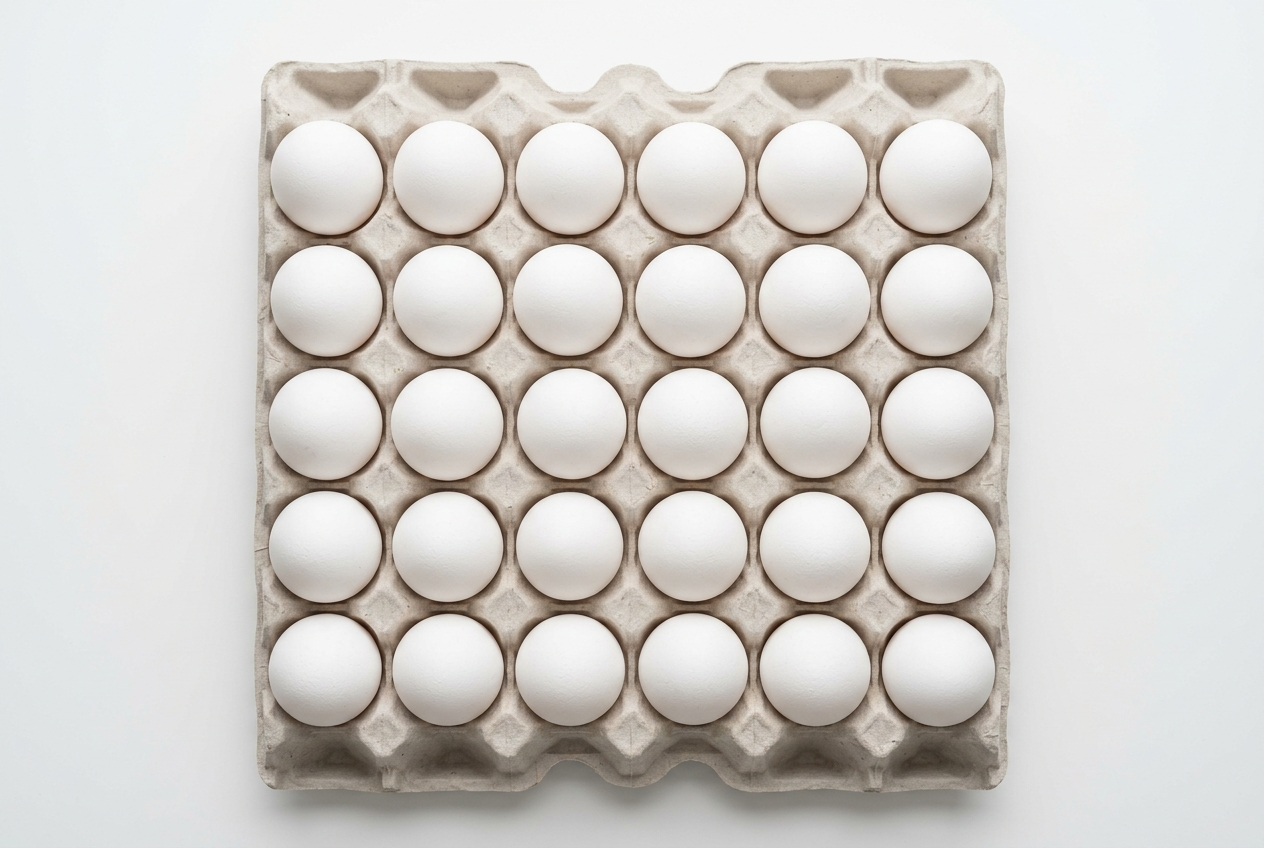
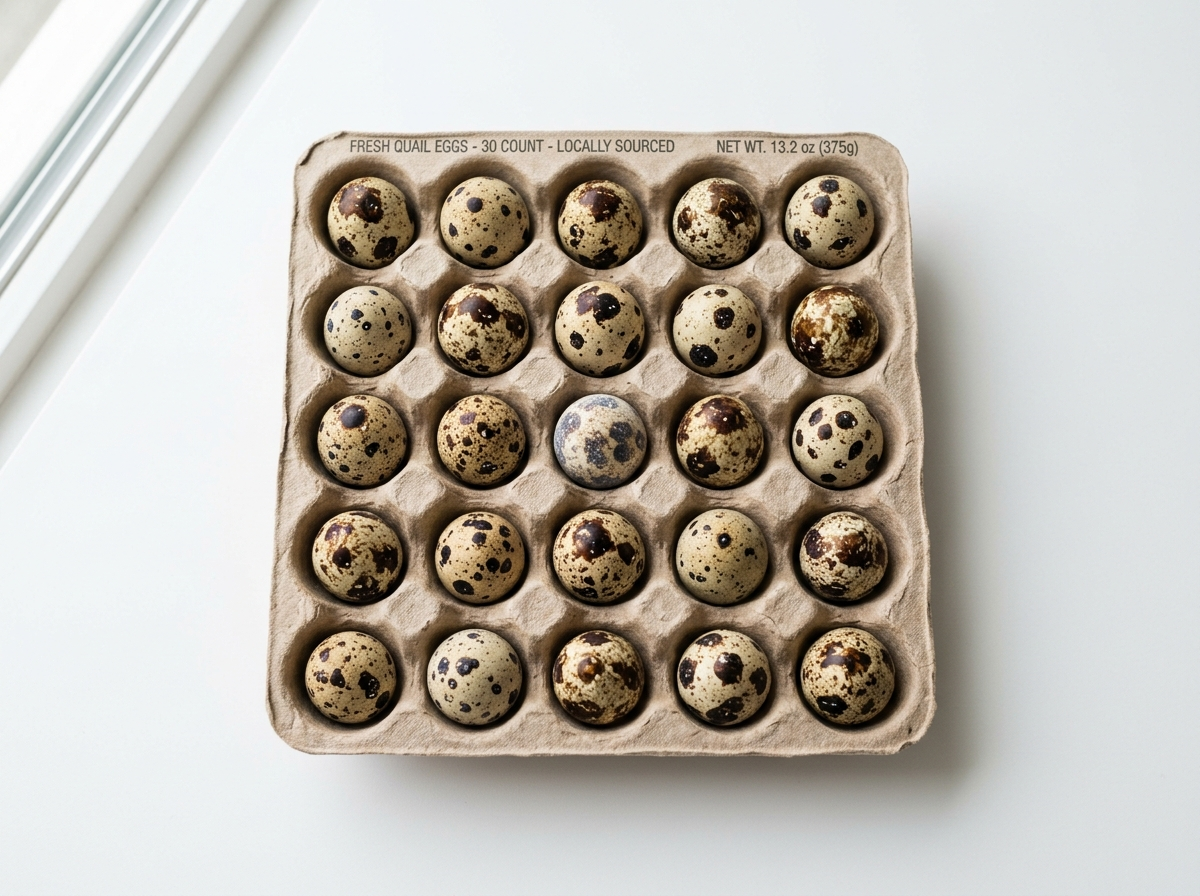
feat: update all images to quail eggs (codorniz), add user hero image, generate product images

diff --git a/src/app/page.tsx b/src/app/page.tsx
@@ -27,20 +27,20 @@ const faqs = [
 const productos = [
   {
     img: "/producto_cubeta.jpg",
-    nombre: "Cubeta de Huevos",
-    desc: "30 huevos frescos seleccionados, empacados con cuidado para proteger su calidad durante el transporte.",
+    nombre: "Cubeta de Huevos de Codorniz",
+    desc: "Huevos de codorniz frescos seleccionados, empacados con cuidado para proteger su calidad durante el transporte.",
     precio: "Consultar precio",
   },
   {
     img: "/producto_carton.jpg",
-    nombre: "Cartón de Huevos",
-    desc: "12 huevos frescos en cartón, ideal para hogares y consumo familiar diario.",
+    nombre: "Cartón de Huevos de Codorniz",
+    desc: "Huevos de codorniz frescos en cartón, ideal para hogares y consumo familiar diario.",
     precio: "Consultar precio",
   },
   {
-    img: "/hero_huevos.jpg",
-    nombre: "Docena Premium",
-    desc: "12 huevos frescos de primera calidad, perfectos para el día a día en tu hogar.",
+    img: "/docena_premium.jpg",
+    nombre: "Huevos Naturales Variados",
+    desc: "Selección premium de huevos naturales de codorniz y huevos de color, frescos y de primera calidad.",
     precio: "Consultar precio",
   },
 ];
@@ -80,7 +80,7 @@ export default function Home() {
       <section className="hero-wp">
         <div style={{ position: 'absolute', inset: 0, zIndex: 0 }}>
           <Image
-            src="/hero_huevos.jpg"
+            src="/img_inicio.jpg"
             alt="Huevos frescos Huevitos Express"
             fill
             sizes="100vw"
@@ -98,7 +98,7 @@ export default function Home() {
               a tu mesa.
             </h1>
             <p style={{ color: 'rgba(255,255,255,0.88)', fontSize: '1.1rem', lineHeight: 1.7, marginBottom: '36px', maxWidth: '560px' }}>
-              En Huevitos Express trabajamos para ofrecer huevos seleccionados, frescos y distribuidos con rapidez, respaldados por la experiencia de la familia Uzcátegui en el sector avícola.
+              En Huevitos Express trabajamos para ofrecer huevos de codorniz y huevos naturales de color, seleccionados, frescos y distribuidos con rapidez, respaldados por la experiencia de la familia Uzcátegui en el sector avícola.
             </p>
             <div style={{ display: 'flex', gap: '16px', flexWrap: 'wrap' }}>
               <Link href="/productos" className="btn-yellow" id="hero-ver-productos">
@@ -159,8 +159,8 @@ export default function Home() {
             </div>
             <div style={{ position: 'relative', height: '420px', border: '4px solid var(--brand-yellow)' }}>
               <Image
-                src="https://images.unsplash.com/photo-1569288052389-dac9b0ac9eac?q=80&w=1000&auto=format&fit=crop"
-                alt="Huevos frescos en granja"
+                src="https://images.unsplash.com/photo-1598965675045-45c5e72c7d05?q=80&w=1000&auto=format&fit=crop"
+                alt="Huevos de codorniz frescos"
                 fill
                 sizes="(max-width: 768px) 100vw, 50vw"
                 style={{ objectFit: 'cover' }}

diff --git a/src/app/productos/page.tsx b/src/app/productos/page.tsx
@@ -11,32 +11,32 @@ export const metadata: Metadata = {
 const productos = [
   {
     img: "/producto_cubeta.jpg",
-    nombre: "Cubeta de Huevos",
-    desc: "Presentación de 30 huevos frescos seleccionados, ideal para familias grandes, restaurantes y negocios que requieren un suministro constante.",
+    nombre: "Cubeta de Huevos de Codorniz",
+    desc: "Presentación de huevos de codorniz frescos seleccionados, ideal para familias grandes, restaurantes y negocios que requieren un suministro constante.",
     presentacion: "30 unidades",
     peso: "Aprox. 1.8 kg",
     cantidad: "Mínimo 1 cubeta",
   },
   {
     img: "/producto_carton.jpg",
-    nombre: "Cartón de Huevos",
-    desc: "Cartón de 12 huevos frescos en empaque individual, perfecto para el consumo familiar diario. Fácil de almacenar y transportar.",
+    nombre: "Cartón de Huevos de Codorniz",
+    desc: "Cartón de huevos de codorniz frescos en empaque individual, perfecto para el consumo familiar diario. Fácil de almacenar y transportar.",
     presentacion: "12 unidades",
     peso: "Aprox. 700 g",
     cantidad: "Mínimo 1 cartón",
   },
   {
-    img: "/hero_huevos.jpg",
-    nombre: "Docena",
-    desc: "12 huevos frescos de primera selección. La presentación más popular para el hogar, con la garantía de calidad de Huevitos Express.",
+    img: "/docena_premium.jpg",
+    nombre: "Huevos Naturales Variados",
+    desc: "Selección premium de huevos naturales de codorniz y huevos de color, frescos y de primera calidad para tu hogar.",
     presentacion: "12 unidades",
     peso: "Aprox. 700 g",
     cantidad: "Mínimo 1 docena",
   },
   {
     img: "/producto_cubeta.jpg",
-    nombre: "Media Cubeta",
-    desc: "15 huevos frescos seleccionados, la opción intermedia entre el cartón y la cubeta completa para uso familiar o pequeños negocios.",
+    nombre: "Media Cubeta de Codorniz",
+    desc: "Huevos de codorniz frescos seleccionados, la opción intermedia entre el cartón y la cubeta completa para uso familiar o pequeños negocios.",
     presentacion: "15 unidades",
     peso: "Aprox. 900 g",
     cantidad: "Mínimo 1 unidad",

diff --git a/src/app/blog/page.tsx b/src/app/blog/page.tsx
@@ -14,7 +14,7 @@ const articulos = [
     resumen: "El huevo es uno de los alimentos más completos de la naturaleza. Descubre por qué los nutricionistas lo recomiendan como parte de una dieta equilibrada.",
     categoria: "Nutrición",
     fecha: "20 de julio, 2026",
-    img: "/hero_huevos.jpg",
+    img: "/docena_premium.jpg",
     tiempo: "5 min",
   },
   {
@@ -41,7 +41,7 @@ const articulos = [
     resumen: "Rompe la rutina de los huevos fritos. Te traemos 10 recetas fáciles, rápidas y deliciosas para empezar el día con energía y proteína.",
     categoria: "Recetas",
     fecha: "5 de julio, 2026",
-    img: "/hero_huevos.jpg",
+    img: "/docena_premium.jpg",
     tiempo: "6 min",
   },
   {
@@ -59,7 +59,7 @@ const articulos = [
     resumen: "¿El huevo sube el colesterol? ¿Solo deberías comer la clara? Desmontamos los mitos más extendidos con base en la evidencia científica actual.",
     categoria: "Nutrición",
     fecha: "20 de junio, 2026",
-    img: "/hero_huevos.jpg",
+    img: "/docena_premium.jpg",
     tiempo: "5 min",
   },
 ];
